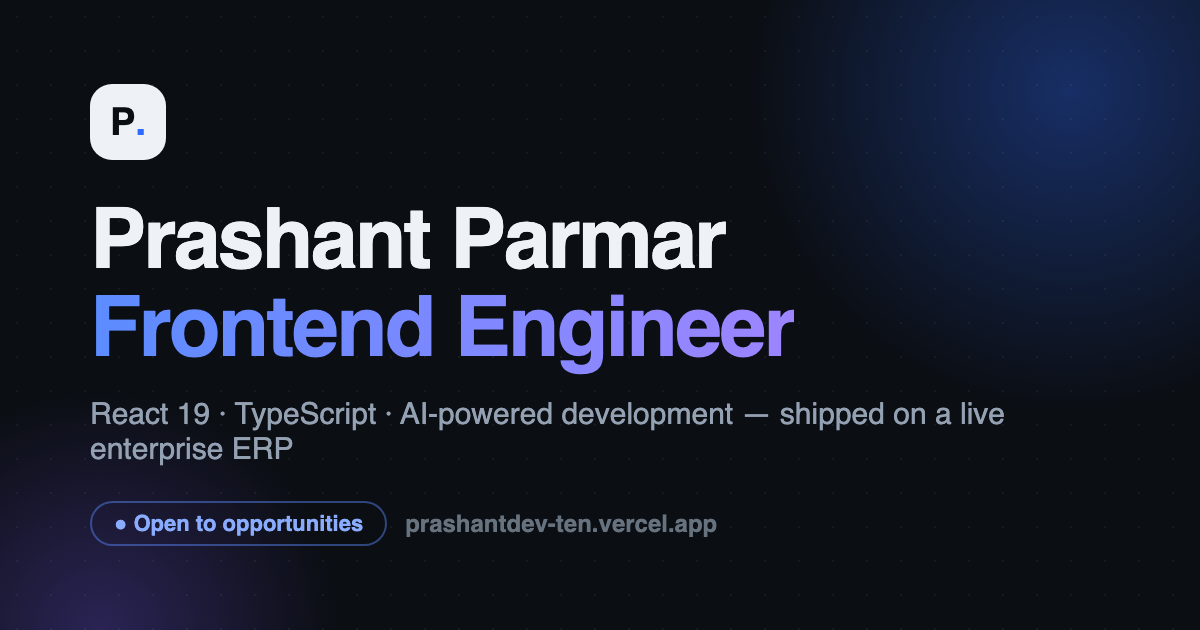
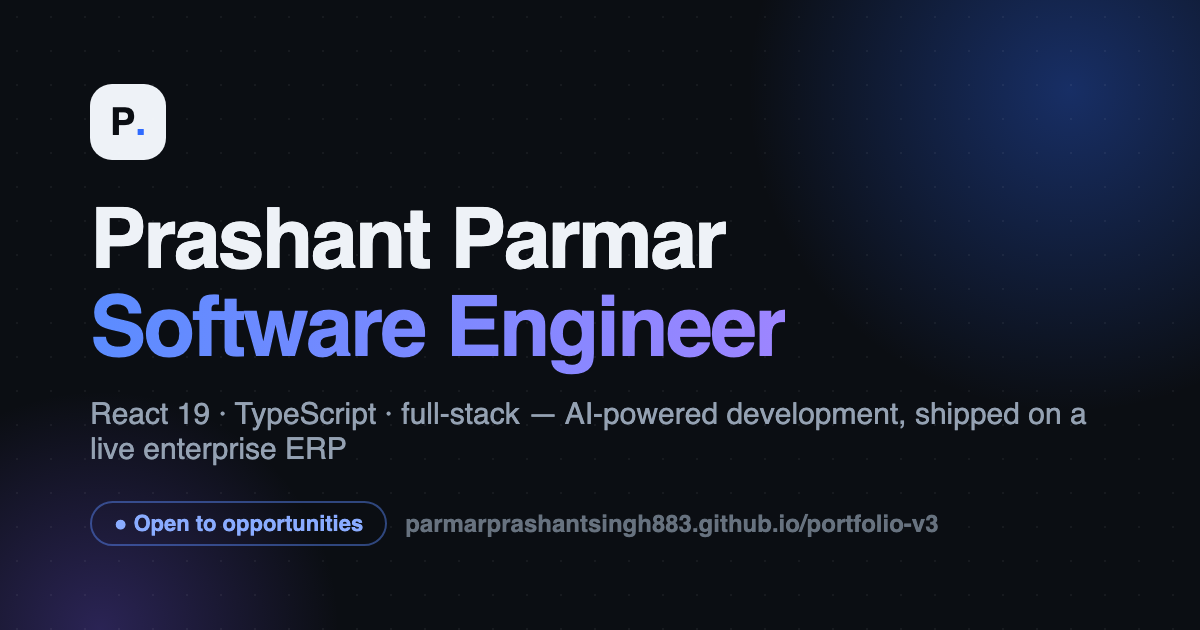
Title consistency: brand as 'Software Engineer' (full-stack lean)
Unify the headline title to Software Engineer across hero, page/OG/
Twitter title, JSON-LD, résumé and chatbot — matching the SDE role and
full-stack reality; keep 'Software Development Engineer' as the real MSBC
role and 'frontend' as a specialty keyword (skills card, meta keywords,
copy) so the sharpest edge and ATS matches survive. Re-rendered OG + PDF.

diff --git a/index.html b/index.html
@@ -3,19 +3,19 @@
 <head>
 <meta charset="utf-8" />
 <meta name="viewport" content="width=device-width, initial-scale=1" />
-<title>Prashant Parmar — Frontend Engineer</title>
-<meta name="description" content="Prashant Parmar — frontend engineer crafting fast, polished, accessible web products with React 19 + TypeScript. Builder of Quarters (SaaS) and ai-diff-check (OSS)." />
+<title>Prashant Parmar — Software Engineer</title>
+<meta name="description" content="Prashant Parmar — software engineer crafting fast, polished, accessible web products with React 19 + TypeScript. Builder of Quarters (SaaS) and ai-diff-check (OSS)." />
 <meta name="theme-color" content="#fafbfc" />
 <script>
 /* set theme before first paint to avoid a light flash in dark mode */
 (function(){try{var t=localStorage.getItem('pf-theme')||(matchMedia('(prefers-color-scheme: dark)').matches?'dark':'light');document.documentElement.dataset.theme=t}catch(e){document.documentElement.dataset.theme='light'}})()
 </script>
 <meta name="author" content="Prashant Parmar" />
-<meta name="keywords" content="Prashant Parmar, Frontend Engineer, AI-Assisted Development, AI-Powered Development, React 19, TypeScript, Vite, TanStack Query, Claude Code, GitHub Copilot, agentic workflows, prompt engineering, live production ERP, Ahmedabad" />
+<meta name="keywords" content="Prashant Parmar, Software Engineer, Frontend Engineer, Full-stack, AI-Assisted Development, AI-Powered Development, React 19, TypeScript, Vite, TanStack Query, Claude Code, GitHub Copilot, agentic workflows, prompt engineering, live production ERP, Ahmedabad" />
 <link rel="canonical" href="https://parmarprashantsingh883.github.io/portfolio-v3/" />
 <meta property="og:type" content="website" />
 <meta property="og:site_name" content="Prashant Parmar" />
-<meta property="og:title" content="Prashant Parmar — Frontend Engineer" />
+<meta property="og:title" content="Prashant Parmar — Software Engineer" />
 <meta property="og:description" content="React 19 + TypeScript engineer on a live enterprise ERP. AI-powered development, done with discipline. Builder of Quarters (SaaS), Signet and ai-diff-check (npm)." />
 <meta property="og:url" content="https://parmarprashantsingh883.github.io/portfolio-v3/" />
 <meta property="og:image" content="https://parmarprashantsingh883.github.io/portfolio-v3/og.png" />
@@ -23,10 +23,10 @@
 <meta property="og:image:height" content="630" />
 <meta name="twitter:card" content="summary_large_image" />
 <meta name="twitter:image" content="https://parmarprashantsingh883.github.io/portfolio-v3/og.png" />
-<meta name="twitter:title" content="Prashant Parmar — Frontend Engineer" />
+<meta name="twitter:title" content="Prashant Parmar — Software Engineer" />
 <meta name="twitter:description" content="React 19 + TypeScript engineer on a live enterprise ERP. AI-powered development, done with discipline." />
 <script type="application/ld+json">
-{"@context":"https://schema.org","@type":"Person","name":"Prashant Parmar","jobTitle":"Frontend Engineer",
+{"@context":"https://schema.org","@type":"Person","name":"Prashant Parmar","jobTitle":"Software Engineer",
 "address":{"@type":"PostalAddress","addressLocality":"Ahmedabad","addressCountry":"IN"},
 "email":"mailto:parmarprashantsingh883@gmail.com","url":"https://prashantdev-ten.vercel.app/",
 "sameAs":["https://github.com/parmarprashantsingh883"],

diff --git a/public/resume.html b/public/resume.html
@@ -3,7 +3,7 @@
 <head>
 <meta charset="utf-8" />
 <meta name="viewport" content="width=device-width, initial-scale=1" />
-<title>Prashant Parmar — Frontend Engineer — Resume</title>
+<title>Prashant Parmar — Software Engineer — Resume</title>
 <style>
   :root{
     --ink:#111111; --muted:#4a4a4a; --accent:#111111; --accent-2:#111111; --rule:#bdbdbd;
@@ -81,7 +81,7 @@
 <div class="sheet">
   <div class="head">
     <h1>Prashant Parmar</h1>
-    <div class="role">Frontend Engineer</div>
+    <div class="role">Software Engineer</div>
     <div class="contact">
       Ahmedabad, India &nbsp;&middot;&nbsp; +91-9574028096 &nbsp;&middot;&nbsp; Parmarprashantsingh883@gmail.com<br>
       Portfolio: <a href="https://prashantdev-ten.vercel.app/"><b>prashantdev-ten.vercel.app</b></a> &nbsp;&middot;&nbsp; linkedin.com/in/prashant-parmar &nbsp;&middot;&nbsp; github.com/parmarprashantsingh883
@@ -91,7 +91,7 @@
   <div class="pad">
     <section>
       <h2>Professional Summary</h2>
-      <p class="summary">Frontend engineer who owns bugs end-to-end on a live, multi-tenant enterprise ERP (<strong>React 19, TypeScript strict, Vite</strong>) — reproduce, root-cause across the frontend and API layers, fix, and gate with types and tests. I care more about understanding <em>why</em> something breaks than patching the symptom. Early, disciplined adopter of <strong>AI-powered development</strong>: AI agents do the heavy lifting, strict <code>tsc</code>/Vitest/Playwright gates keep them honest. Proof I finish what I start: a <strong>deployed multi-tenant SaaS</strong> and an <strong>npm-published developer CLI</strong>, both built solo.</p>
+      <p class="summary">Software engineer who owns bugs end-to-end on a live, multi-tenant enterprise ERP (<strong>React 19, TypeScript strict, Vite</strong>) — reproduce, root-cause across the frontend and API layers, fix, and gate with types and tests. I care more about understanding <em>why</em> something breaks than patching the symptom. Early, disciplined adopter of <strong>AI-powered development</strong>: AI agents do the heavy lifting, strict <code>tsc</code>/Vitest/Playwright gates keep them honest. Proof I finish what I start: a <strong>deployed multi-tenant SaaS</strong> and an <strong>npm-published developer CLI</strong>, both built solo.</p>
     </section>
 
     <section>

diff --git a/src/lib/chatKB.ts b/src/lib/chatKB.ts
@@ -52,7 +52,7 @@ export const KB: KBEntry[] = [
     keys: ['who', 'about', 'prashant', 'introduce', 'introduction', 'yourself', 'himself', 'summary'],
     phrases: ['tell me about', 'who is'],
     answer:
-      "**Prashant Parmar** is a frontend engineer from Ahmedabad, India. By day he ships production code on **DWERP**, a live multi-tenant enterprise ERP (React 19 + TypeScript strict). Beyond work he finishes what he starts: **Quarters**, a deployed multi-tenant SaaS, and **ai-diff-check**, an npm-published CLI — both built solo.\nHis edge: **AI-powered development** with real engineering discipline.",
+      "**Prashant Parmar** is a software engineer from Ahmedabad, India. By day he ships production code on **DWERP**, a live multi-tenant enterprise ERP (React 19 + TypeScript strict). Beyond work he finishes what he starts: **Quarters**, a deployed multi-tenant SaaS, and **ai-diff-check**, an npm-published CLI — both built solo.\nHis edge: **AI-powered development** with real engineering discipline.",
     chips: ['What does he do at MSBC?', 'Show me his projects', 'His AI workflow'],
   },
   {
@@ -154,7 +154,7 @@ export const KB: KBEntry[] = [
     keys: ['availability', 'interview'],
     phrases: ['open to work', 'looking for'],
     answer:
-      "He's **open to frontend engineering opportunities** — especially React/TypeScript roles where AI-powered development is valued. The fastest way to talk: email **[parmarprashantsingh883@gmail.com](mailto:parmarprashantsingh883@gmail.com)** or call **+91-9574028096**.\n(For compensation questions — that's a conversation for him, not me 😄)",
+      "He's **open to software / frontend engineering roles** — especially React/TypeScript roles where AI-powered development is valued. The fastest way to talk: email **[parmarprashantsingh883@gmail.com](mailto:parmarprashantsingh883@gmail.com)** or call **+91-9574028096**.\n(For compensation questions — that's a conversation for him, not me 😄)",
     chips: ['Contact him', 'Download resume', 'Why hire him?'],
   },
   {

diff --git a/src/lib/chatPersona.ts b/src/lib/chatPersona.ts
@@ -3,7 +3,7 @@
 export const SYSTEM = `You are the AI assistant on Prashant Parmar's portfolio website. Visitors (often recruiters) ask about him; answer warmly, concisely (under 120 words), in markdown-lite (**bold**, [text](url)).
 
 Facts — never invent beyond these:
-- Prashant Parmar, frontend engineer, Ahmedabad, India (IST). Email parmarprashantsingh883@gmail.com, phone +91-9574028096, GitHub github.com/parmarprashantsingh883, resume at /resume.pdf.
+- Prashant Parmar, software engineer (frontend-focused, full-stack), Ahmedabad, India (IST). Email parmarprashantsingh883@gmail.com, phone +91-9574028096, GitHub github.com/parmarprashantsingh883, resume at /resume.pdf.
 - SDE Intern at MSBC Group (Mar 2026–present) on DWERP, a LIVE multi-tenant enterprise SaaS ERP for glass manufacturing — in production, real businesses run on it, his code ships to real users. Emphasize the live-production nature of this experience whenever relevant.
 - React 19, TypeScript strict, Vite, Tailwind, TanStack Query v5. Owns bugs end-to-end (reproduce → root-cause → fix → gate with tsc/Vitest/Playwright). Built RBAC access-control UI across 5 modules; typed forms (React Hook Form + Zod) incl. tax/bank/address config for IN/UK/US/AUS; spec-vs-implementation gap analysis; PR reviews.
 - AI-Assisted Development is his headline skill: directs Claude Code & GitHub Copilot like a tech lead across the bug-to-PR cycle (custom agents, prompt/context engineering, MCP integrations); nothing ships unverified. Built ai-diff-check, an npm CLI (npx ai-diff-check, 10+ releases) that reviews AI-written diffs via deterministic AST analysis.

diff --git a/src/components/About.tsx b/src/components/About.tsx
@@ -11,7 +11,7 @@ export default function About() {
         </div>
         <div className="about-grid">
           <div className="rv">
-            <p className="about-lead">A frontend engineer who loves the <em>whole craft</em> — from the first wireframe to the last loading state.</p>
+            <p className="about-lead">A software engineer who loves the <em>whole craft</em> — from the first wireframe to the last loading state.</p>
             <p className="about-p">By day I build <b>DWERP</b>, an enterprise multi-tenant ERP, where I've shipped access control, multi-region configuration and reusable component systems in React 19 + strict TypeScript. By night I build my own things — <b>Quarters</b>, a SaaS running in production, and <b>ai-diff-check</b>, an open-source CLI.</p>
             <p className="about-p">I sweat the details users feel: fast loads, smooth motion, forms that guide instead of fight, and layouts that work on any screen. And my edge with <b>AI-powered development</b> isn't using the tools — it's directing them: I work with agents the way a tech lead reviews a fast junior, delegating execution and gatekeeping the output against what "good" actually looks like. Clean git history, reviewed PRs and repeatable playbooks keep it shippable to a <b>team</b>, not just working on my machine.</p>
             <p className="about-p">My path: <b>BCA at Silver Oak University (8.6 CGPA)</b> → intensive <b>MERN training at Tops Technologies</b> → building an enterprise ERP at <b>MSBC Group</b> — while shipping side projects the whole way.</p>

diff --git a/src/components/Hero.tsx b/src/components/Hero.tsx
@@ -12,14 +12,14 @@ export default function Hero() {
   return (
     <section className="hero wrap">
       <span className="hero-pill">
-        <span className="dot" /> Frontend Engineer · Open to opportunities · Ahmedabad, India
+        <span className="dot" /> Software Engineer · Open to opportunities · Ahmedabad, India
       </span>
       <h1 className="hero-h">
         <span className="row"><span style={{ animationDelay: '.55s' }}>I design &amp; build</span></span>
         <span className="row"><span style={{ animationDelay: '.7s' }}><span className="spin" id="spin">products.</span></span></span>
       </h1>
       <p className="hero-sub">
-        I'm Prashant, a frontend engineer from Ahmedabad. Days go into a <b>live enterprise ERP</b> (React 19, strict
+        I'm Prashant, a software engineer from Ahmedabad. Days go into a <b>live enterprise ERP</b> (React 19, strict
         TypeScript). Evenings go into my own things — <b>a SaaS that's actually deployed</b> and an open-source CLI. AI
         agents help me move fast; <b>I make sure nothing sloppy ships</b>.
       </p>

diff --git a/src/components/QuickSummary.tsx b/src/components/QuickSummary.tsx
@@ -29,7 +29,7 @@ export default function QuickSummary() {
           </button>
         </div>
         <div className="qsum-body">
-          <p><b>Frontend engineer, Ahmedabad</b> — React 19 + TypeScript strict.</p>
+          <p><b>Software engineer, Ahmedabad</b> — React 19 + TypeScript strict.</p>
           <ul>
             <li><b>Live production experience</b> — ships daily to DWERP, an enterprise ERP real businesses run on (MSBC Group, Mar 2026–present)</li>
             <li><b>Finishes what he starts</b> — Quarters (multi-tenant SaaS, deployed solo) and ai-diff-check (npm-published CLI, 10+ releases)</li>
